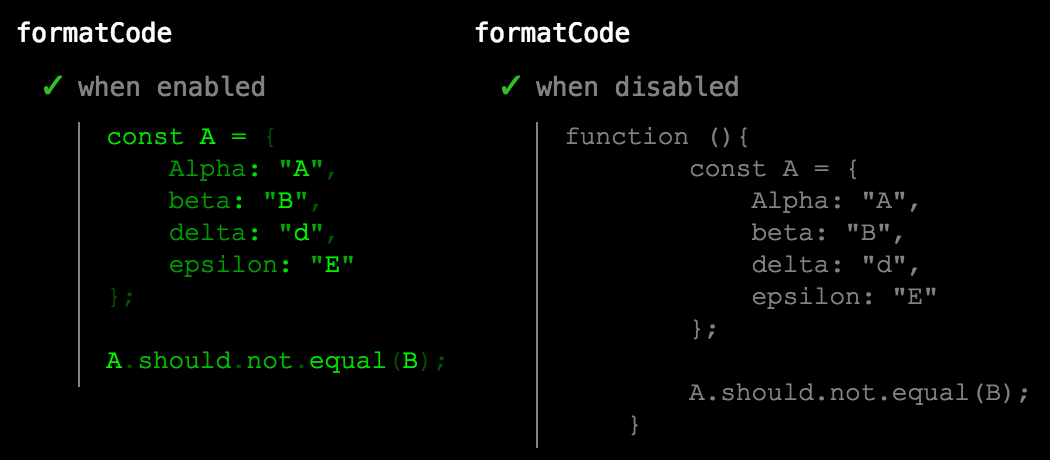
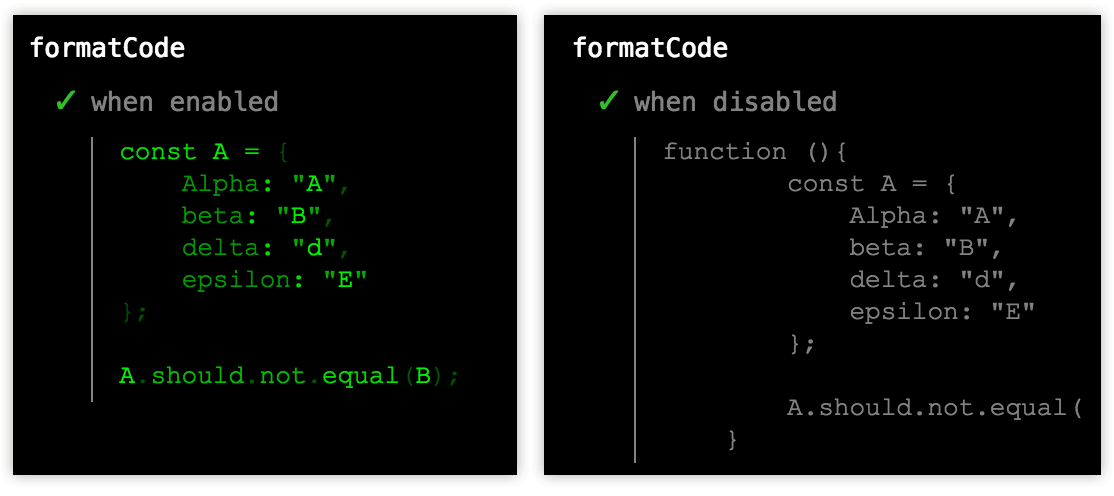
Split formatCode preview vertically

Changed region(s): [[0.0, 0.0, 1.0, 1.0], [0.061, 0.2739, 0.4267, 0.8217], [0.5181, 0.2739, 0.9448, 0.7304]]

diff --git a/docs/options.md b/docs/options.md
@@ -197,7 +197,7 @@ Print stack traces in reverse order, placing more recent calls at the bottom.
 __Default: Enabled__  
 Prettify the contents of embedded JavaScript snippets.
 
-<img src="img/format-code.png" width="528" alt="formatCode comparison" />
+<img src="img/format-code.png" width="557" alt="formatCode comparison" />
 
 The specific effects of this option are:
 * Removal of containing `function` headers
